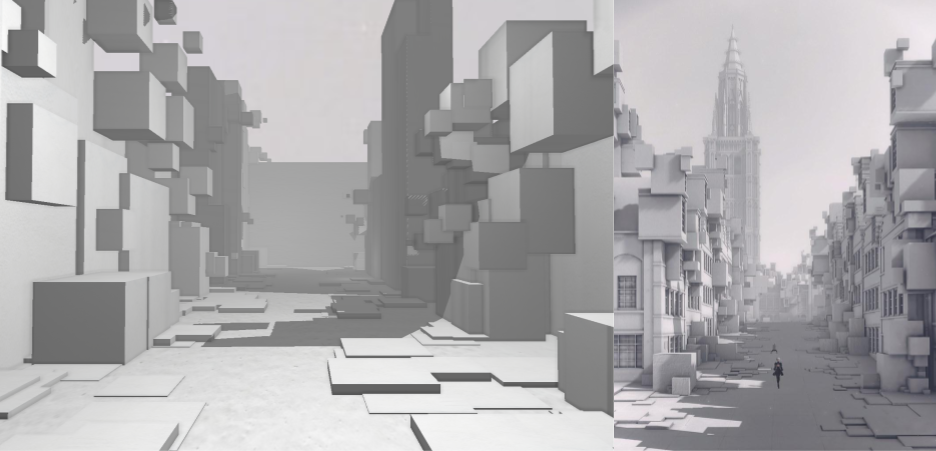
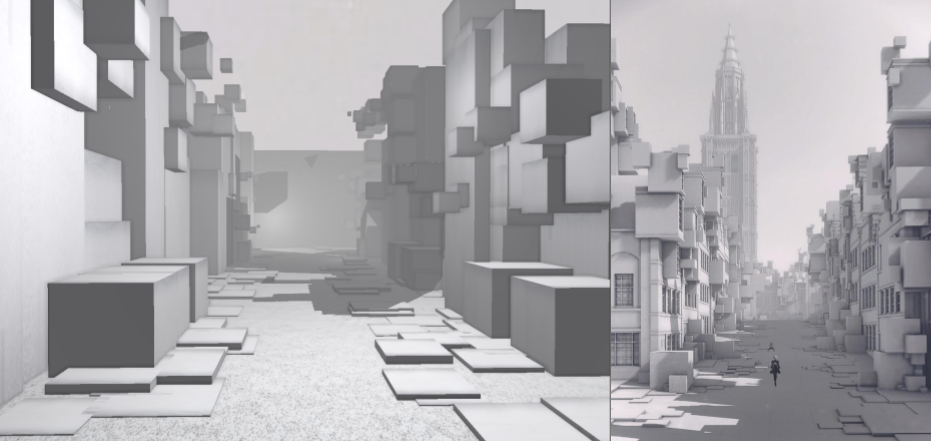
new side by side

diff --git a/src/citygenerator/staticposdata.h b/src/citygenerator/staticposdata.h
@@ -7,14 +7,14 @@
 
 // define grayscale/white color constants here
 
-#define AMBIENT_WHITE_1 glm::vec3(0.77f, 0.77f, 0.77f)
+#define AMBIENT_WHITE_1 glm::vec3(0.77f, 0.77f, 0.80f)
 
-#define DIFFUSE_WHITE_1 glm::vec3(0.90f, 0.90f, 0.90f)
-#define DIFFUSE_WHITE_2 glm::vec3(0.92f, 0.925f, 0.91f)
-#define DIFFUSE_WHITE_3 glm::vec3(0.94f, 0.93f, 0.95f)
+#define DIFFUSE_WHITE_1 glm::vec3(0.90f, 0.90f, 0.93f)
+#define DIFFUSE_WHITE_2 glm::vec3(0.91f, 0.92f, 0.95f)
+#define DIFFUSE_WHITE_3 glm::vec3(0.92f, 0.92f, 0.98f)
 
-#define SPECULAR_WHITE_1 glm::vec3(0.6f, 0.6f, 0.6f)
-#define SPECULAR_WHITE_2 glm::vec3(0.7f, 0.7f, 0.7f)
+#define SPECULAR_WHITE_1 glm::vec3(0.6f, 0.6f, 0.62f)
+#define SPECULAR_WHITE_2 glm::vec3(0.7f, 0.7f, 0.72f)
 
 #define LEFT_FACADE_OFFSET -50.f
 #define RIGHT_FACADE_OFFSET 23.f

diff --git a/src/cityrenderer/blocktexture.cpp b/src/cityrenderer/blocktexture.cpp
@@ -1,7 +1,7 @@
 #include "realtime.h"
 
 
-#define BLOCK_TEXTURE_PATH ":/resources/textures/block1.png"
+#define BLOCK_TEXTURE_PATH ":/resources/textures/dirtyblock.png"
 
 void CopiedCity::InitializeBlockTexture() {
 
